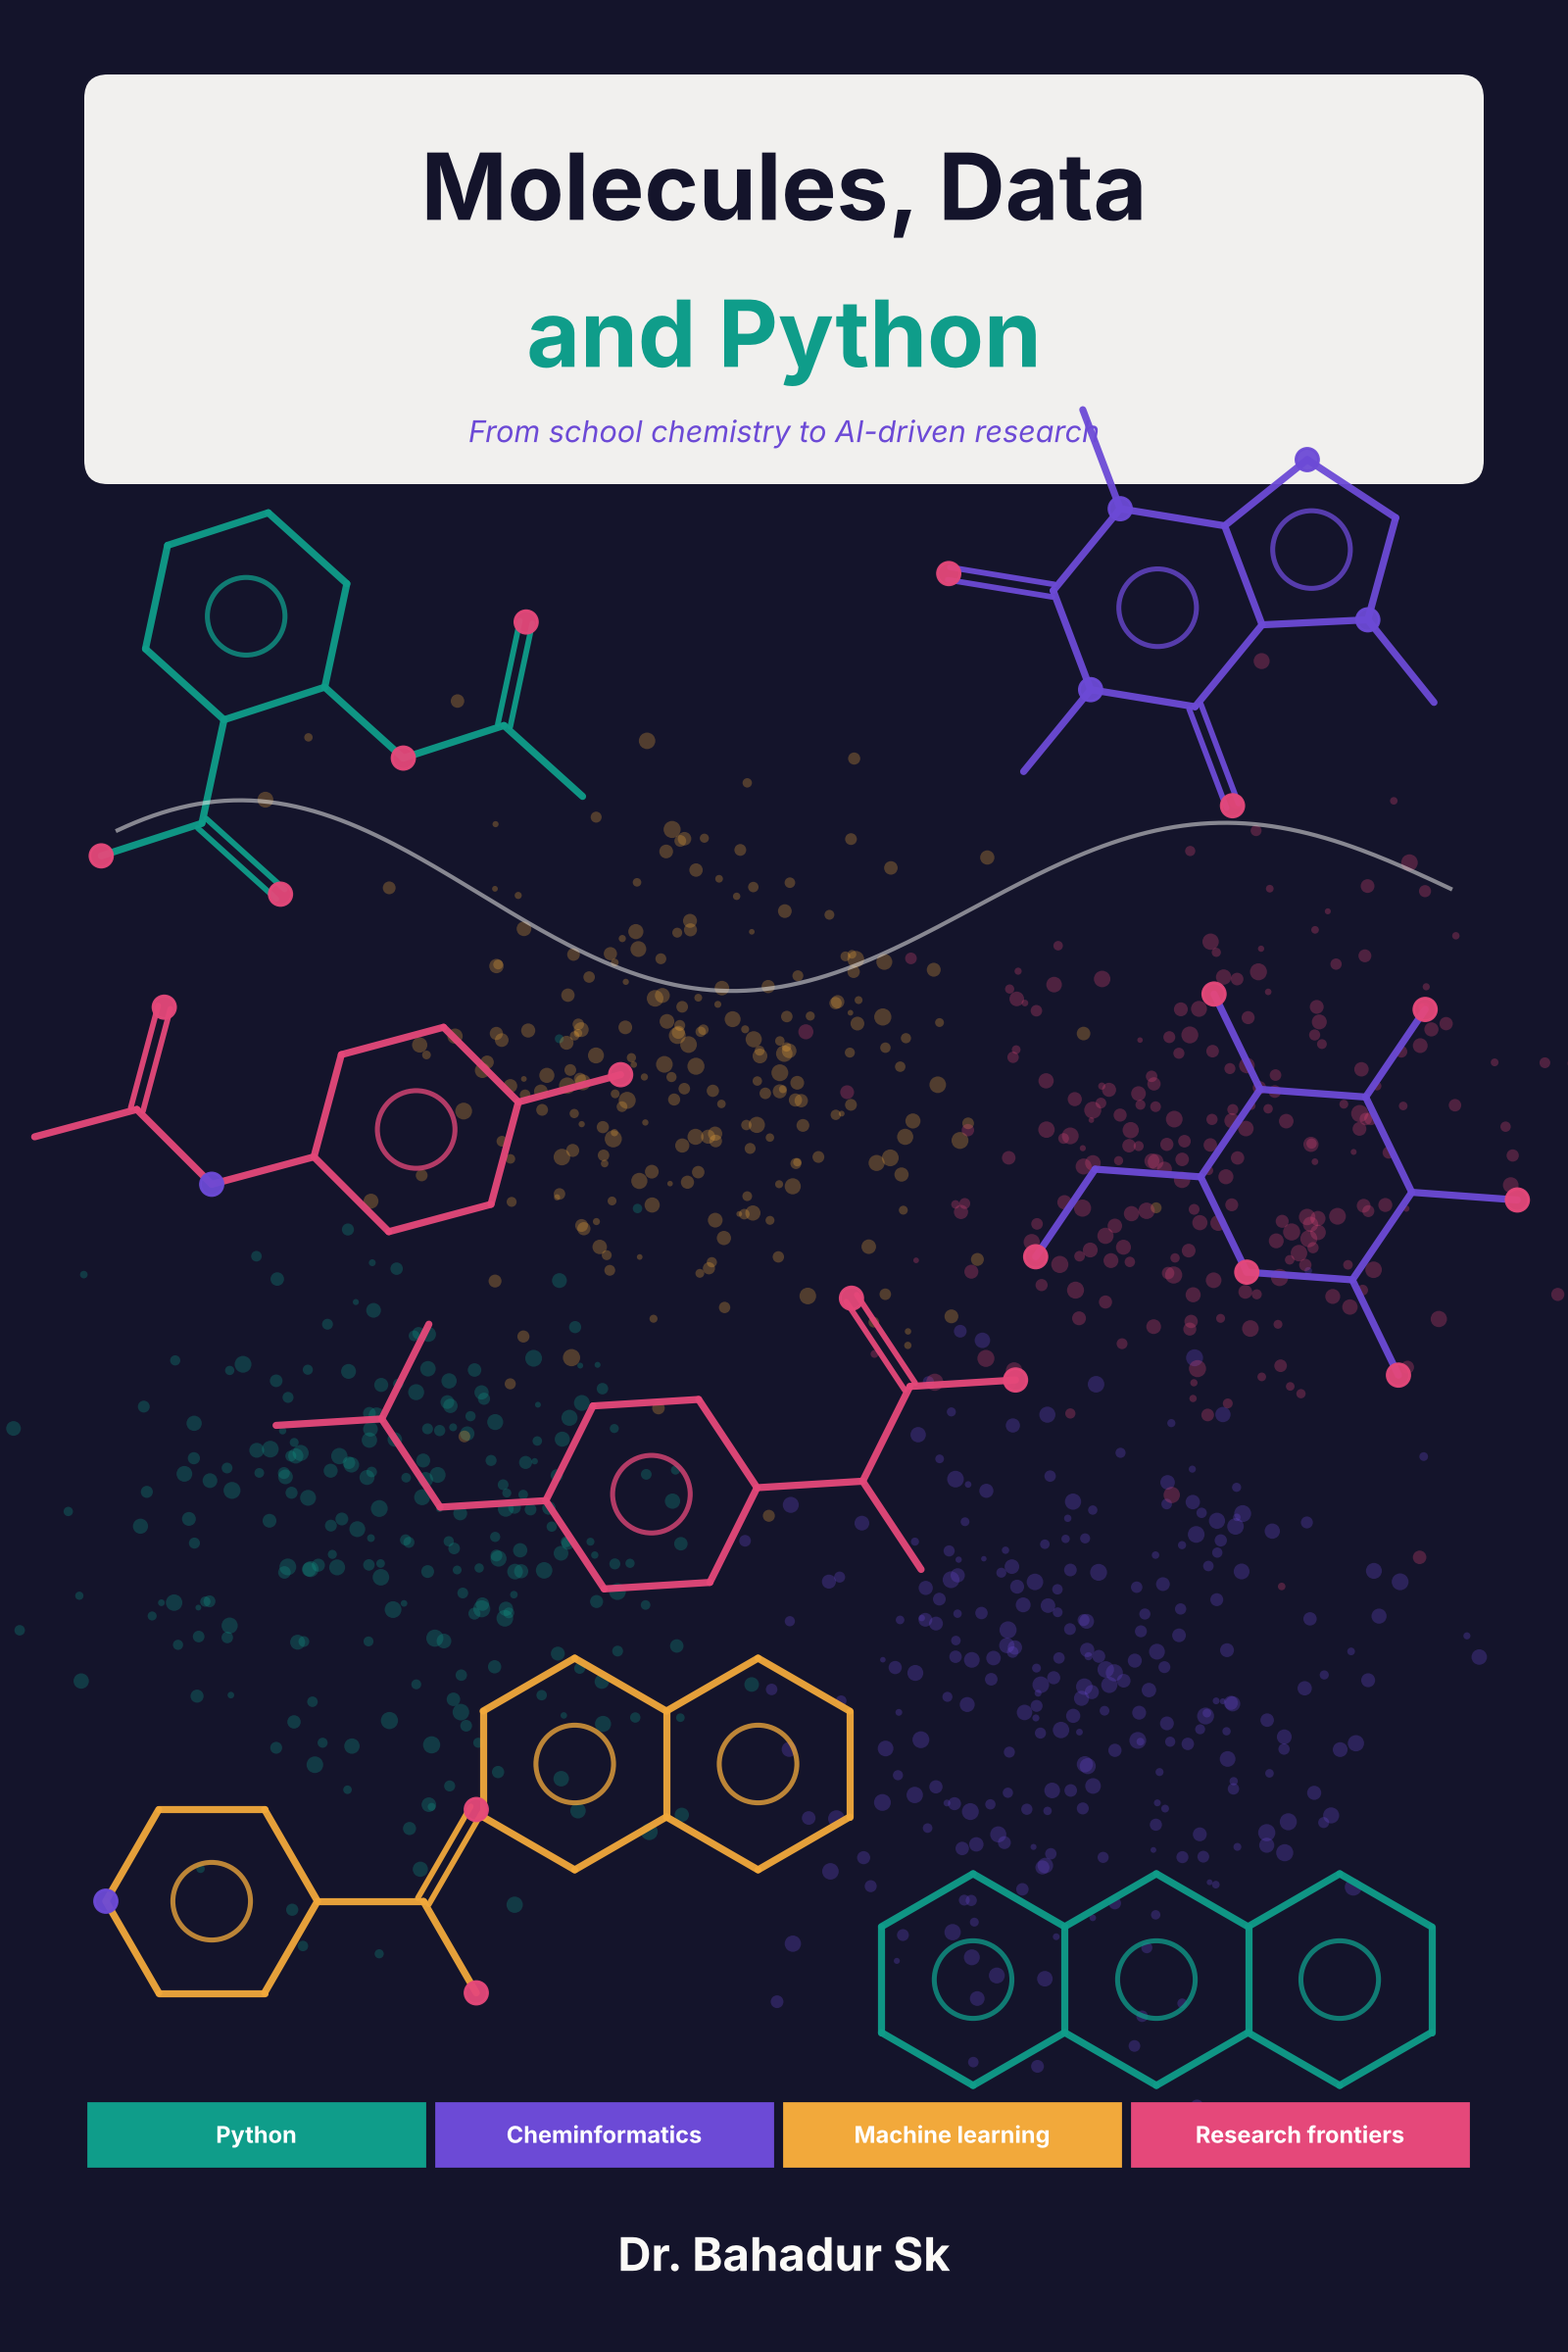
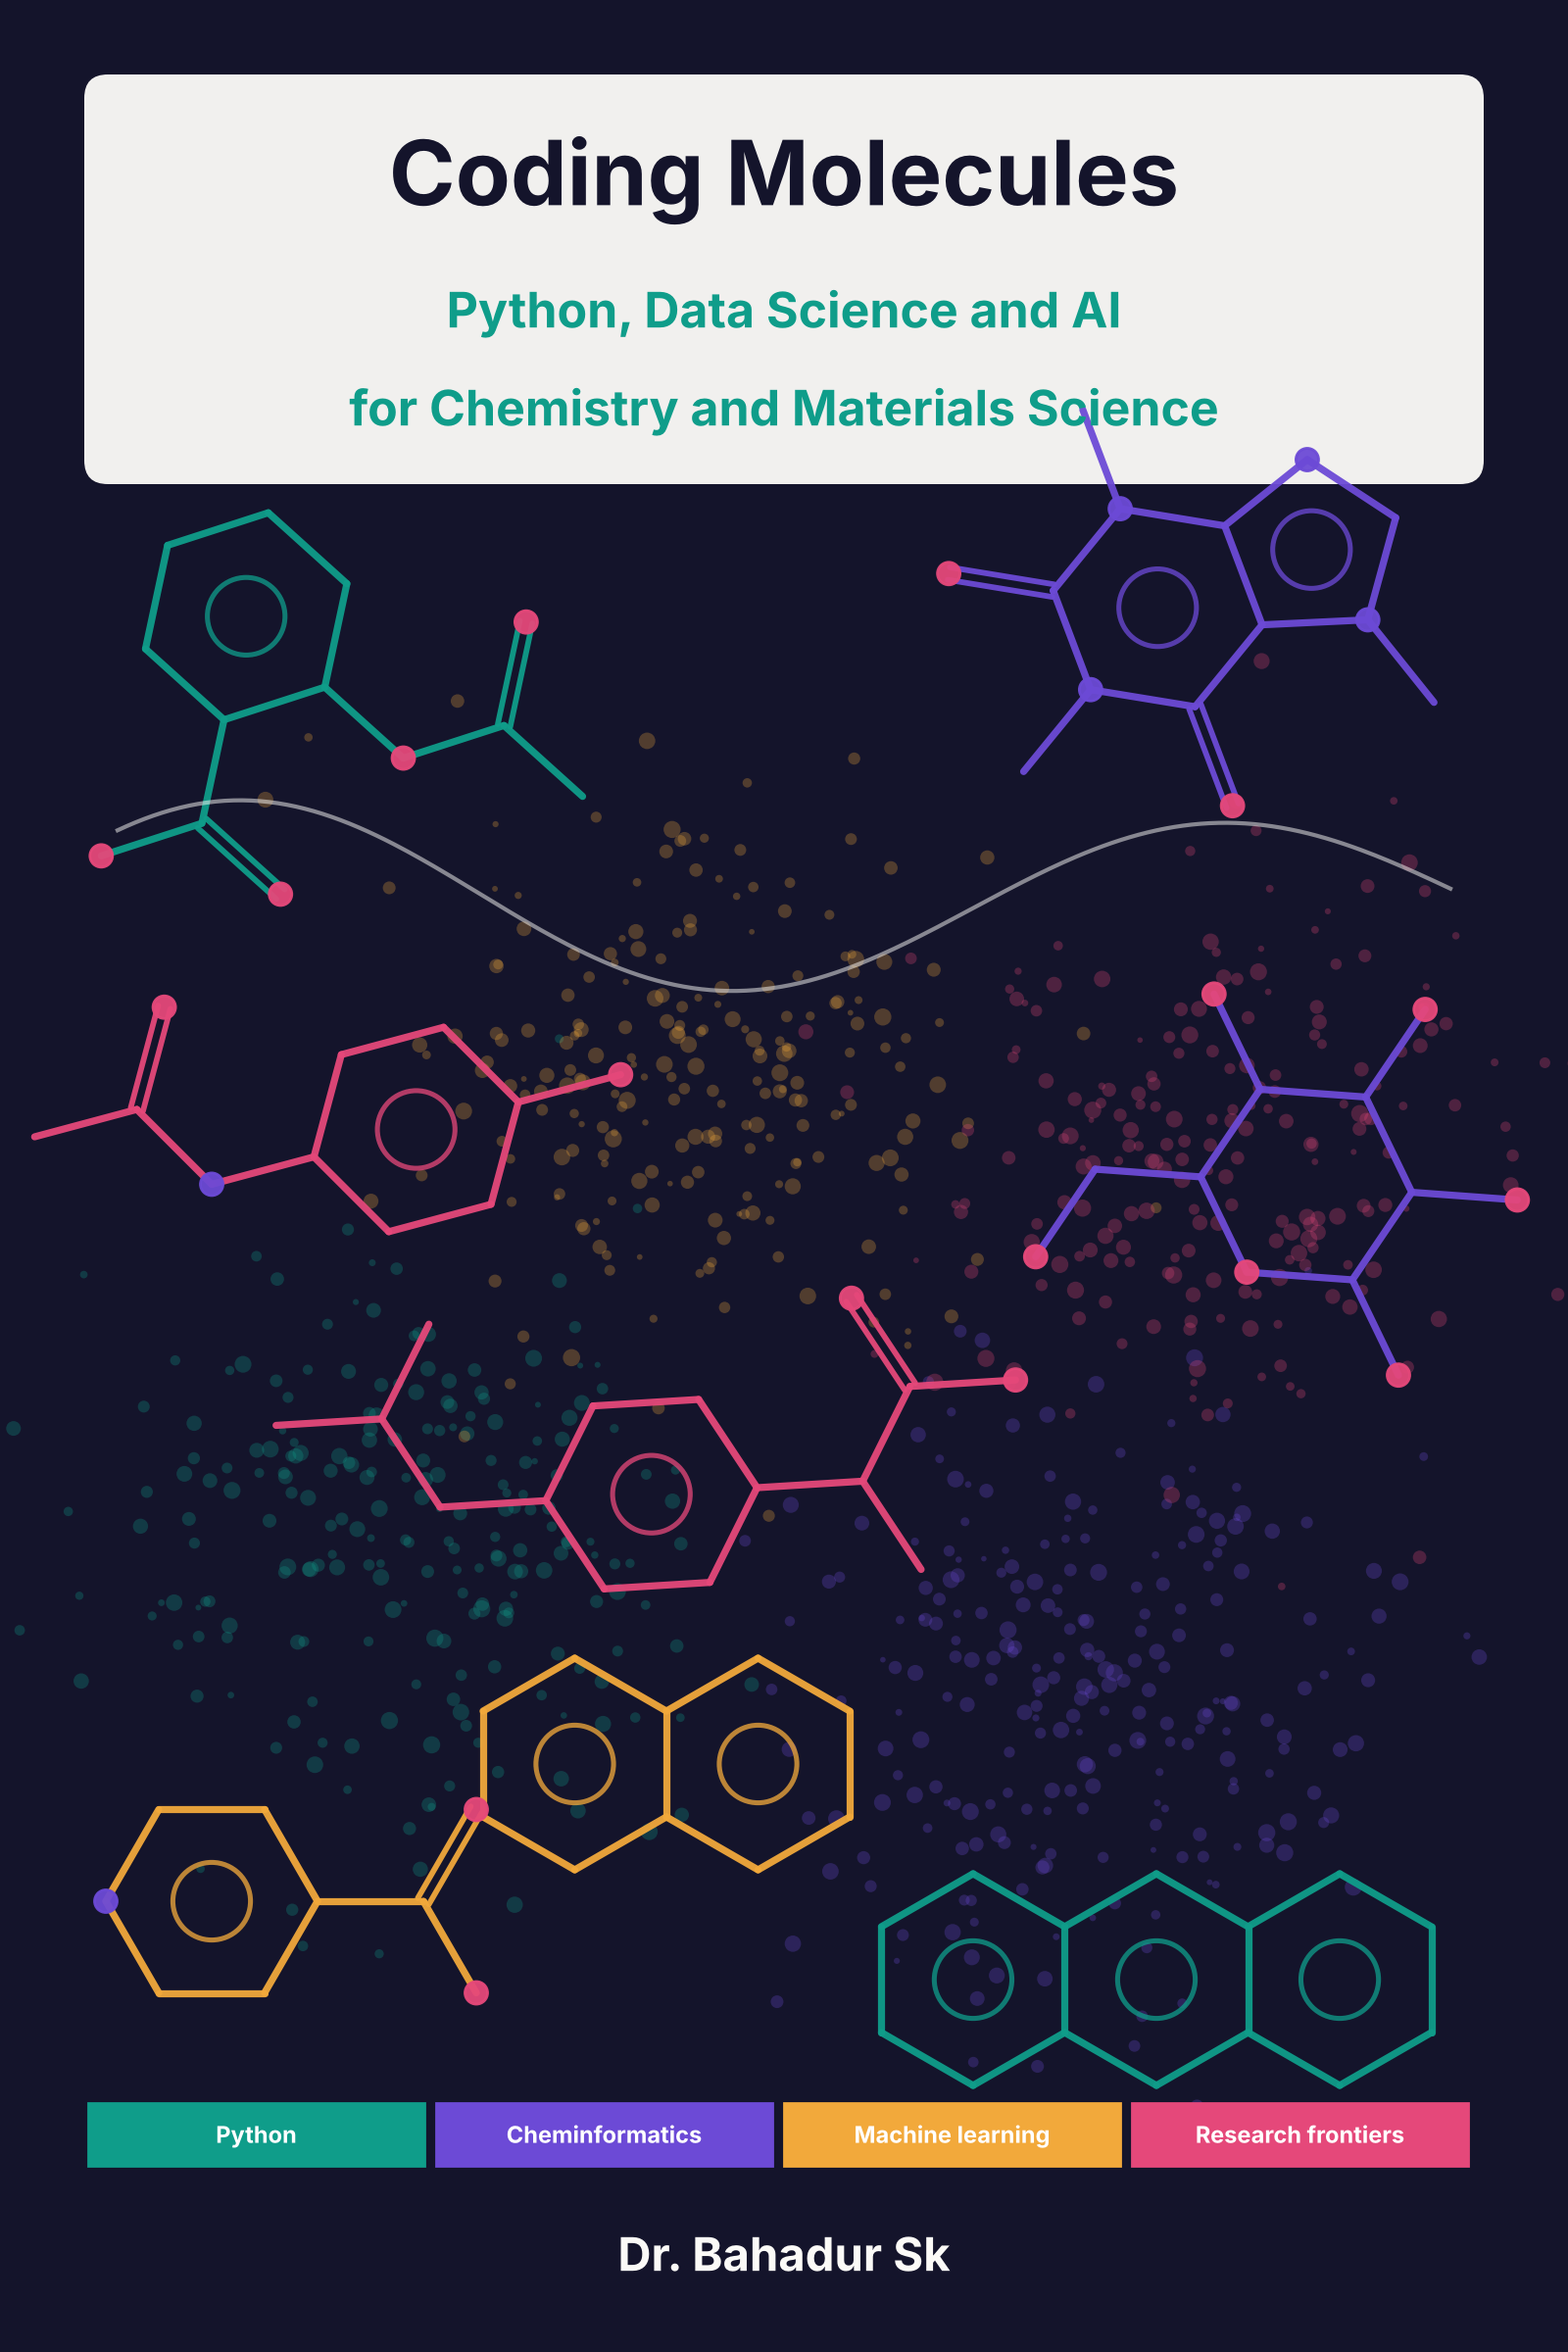
Rename the book to Coding Molecules: Python, Data Science and AI for Chemistry and Materials Science

Changed region(s): [[0.2188, 0.125, 0.7812, 0.1875], [0.25, 0.0625, 0.75, 0.0938]]

diff --git a/tools/make_pdf.js b/tools/make_pdf.js
@@ -54,7 +54,7 @@ const PRINT_CSS = `
     printBackground: true,
     margin: { top: "18mm", bottom: "18mm", left: "16mm", right: "16mm" },
     displayHeaderFooter: true,
-    headerTemplate: `<div style="font-size:7pt;width:100%;text-align:right;padding-right:16mm;color:#888">Molecules, Data and Python</div>`,
+    headerTemplate: `<div style="font-size:7pt;width:100%;text-align:right;padding-right:16mm;color:#888">Coding Molecules: Python, Data Science and AI for Chemistry and Materials Science</div>`,
     footerTemplate: `<div style="font-size:7pt;width:100%;text-align:center;color:#888"><span class="pageNumber"></span></div>`,
   });
   await browser.close();

diff --git a/book/_static/custom.css b/book/_static/custom.css
@@ -1,4 +1,4 @@
-/* Molecules, Data and Python: colour theme */
+/* Coding Molecules: Python, Data Science and AI for Chemistry and Materials Science — colour theme */
 :root {
   --mdp-teal: #0f9d8a;
   --mdp-violet: #6c4ad6;

diff --git a/tools/make_art.py b/tools/make_art.py
@@ -121,10 +121,11 @@ def cover(w=8.0, h=12.0, name="cover.png", dpi=200):
     # title block
     ax.add_patch(FancyBboxPatch((0.45, 9.55), w - 0.9, 2.05, boxstyle="round,pad=0.02,rounding_size=0.12",
                                 fc=PAPER, ec="none", alpha=0.96))
-    ax.text(w / 2, 11.05, "Molecules, Data", ha="center", va="center", fontsize=34, weight="bold", color=INK)
-    ax.text(w / 2, 10.3, "and Python", ha="center", va="center", fontsize=34, weight="bold", color=TEAL)
-    ax.text(w / 2, 9.8, "From school chemistry to AI-driven research", ha="center", va="center",
-            fontsize=11, color=VIOLET, style="italic")
+    ax.text(w / 2, 11.12, "Coding Molecules", ha="center", va="center", fontsize=33, weight="bold", color=INK)
+    ax.text(w / 2, 10.42, "Python, Data Science and AI", ha="center", va="center",
+            fontsize=18, weight="bold", color=TEAL)
+    ax.text(w / 2, 9.92, "for Chemistry and Materials Science", ha="center", va="center",
+            fontsize=18, weight="bold", color=TEAL)
 
     # level ribbon
     for k, (lbl, c) in enumerate([("Python", TEAL), ("Cheminformatics", VIOLET),
@@ -149,10 +150,9 @@ def social_card():
                cmap=matplotlib.colors.ListedColormap(PALETTE), alpha=0.3, lw=0)
     for (smi, col), c in zip(COVER_MOLS[:4], [(7.6, 4.7), (10.4, 4.2), (8.0, 1.9), (10.7, 1.4)]):
         draw_mol(ax, smi, c, scale=0.33, colour=col, lw=2.4)
-    ax.text(0.7, 4.3, "Molecules, Data", fontsize=44, weight="bold", color=PAPER, va="center")
-    ax.text(0.7, 3.3, "and Python", fontsize=44, weight="bold", color=TEAL, va="center")
-    ax.text(0.7, 2.3, "An interactive book: Python, cheminformatics\nand machine learning for chemists",
-            fontsize=15, color=PAPER, va="center", alpha=0.9)
+    ax.text(0.7, 4.55, "Coding Molecules", fontsize=42, weight="bold", color=PAPER, va="center")
+    ax.text(0.7, 3.15, "Python, Data Science and AI for\nChemistry and Materials Science",
+            fontsize=23, weight="bold", color=TEAL, va="center", linespacing=1.45)
     ax.text(0.7, 0.9, "Dr. Bahadur Sk", fontsize=17, color=AMBER, weight="bold", va="center")
     fig.savefig(OUT / "social_card.png", dpi=100, facecolor=INK)
     plt.close(fig)
@@ -210,7 +210,7 @@ def library_table(name="library_table.png"):
         ax.text(c + 0.5, r + 0.79, nm, color="white", fontsize=5.6, ha="center", va="center", linespacing=0.9)
     ax.text(9, -1.2, "Periodic Table of Python for Chemists", ha="center", va="center",
             fontsize=21, weight="bold", color=INK)
-    ax.text(9, -0.55, "every tool and method used in Molecules, Data and Python\n(the small number on each tile is the chapter that introduces it)",
+    ax.text(9, -0.55, "every tool and method used in this book\n(the small number on each tile is the chapter that introduces it)",
             ha="center", va="center", fontsize=9.5, color="#555", linespacing=1.3)
     for k, (cat, (col, lbl)) in enumerate(CAT.items()):
         x = 2.6 + k * 2.75
@@ -233,8 +233,9 @@ def logo_with_title(name="logo_title.png"):
         ax.add_patch(Circle((cx + R * np.cos(a), cy + R * np.sin(a)), 0.1, color=PALETTE[k % 4], zorder=5))
     xs = np.linspace(-0.28, 0.28, 40)
     ax.plot(cx + xs, cy + 0.22 * np.tanh(4 * xs / 0.62) - 0.01, color=AMBER, lw=3, solid_capstyle="round")
-    ax.text(cx, 0.62, "Molecules, Data", ha="center", va="center", fontsize=13, weight="bold", color=VIOLET, style="italic")
-    ax.text(cx, 0.28, "and Python", ha="center", va="center", fontsize=13, weight="bold", color=TEAL, style="italic")
+    ax.text(cx, 0.72, "Coding Molecules", ha="center", va="center", fontsize=13, weight="bold", color=VIOLET, style="italic")
+    ax.text(cx, 0.33, "Python, Data Science and AI for\nChemistry and Materials Science", ha="center", va="center",
+            fontsize=7.4, weight="bold", color=TEAL, style="italic", linespacing=1.4)
     fig.savefig(OUT / name, transparent=True)
     plt.close(fig)
 

diff --git a/book/intro.md b/book/intro.md
@@ -1,4 +1,4 @@
-# Molecules, Data and Python
+# Coding Molecules: Python, Data Science and AI for Chemistry and Materials Science
 
 ```{image} _static/library_table.png
 :alt: "Periodic Table of Python for Chemists: coloured tiles for every library and method used in the book, such as NumPy, pandas, Matplotlib, RDKit, SciPy, scikit-learn and PyTorch, each labelled with the chapter that introduces it"
@@ -7,7 +7,7 @@
 
 ## An interactive introduction to Python, cheminformatics and machine learning for chemists
 
-*Molecules, Data and Python* teaches programming the way chemists actually use it: to calculate, to plot, to draw and search molecules, to simulate, and to learn from data. It starts at the very beginning (your first line of Python is a molar mass) and ends at the research frontier, with machine learning for drug discovery, catalysis, spectroscopy, batteries, polymers and materials, and with AI-driven discovery, sensing, imaging and prediction.
+*Coding Molecules: Python, Data Science and AI for Chemistry and Materials Science* teaches programming the way chemists actually use it: to calculate, to plot, to draw and search molecules, to simulate, and to learn from data. It starts at the very beginning (your first line of Python is a molar mass) and ends at the research frontier, with machine learning for drug discovery, catalysis, spectroscopy, batteries, polymers and materials, and with AI-driven discovery, sensing, imaging and prediction.
 
 Every chapter is a Jupyter notebook. You can read it here, or press the 🚀 **launch** button at the top of any chapter to open it in **Google Colab** or **Binder** and run, edit and break the code yourself, with nothing to install. The ⬇ **download** button gives you the notebook to run on your own computer.
 
@@ -131,14 +131,14 @@ This book is © 2026 Dr. Bahadur Sk. The text, figures and data are released und
 
 [![DOI](https://zenodo.org/badge/DOI/10.5281/zenodo.24583664.svg)](https://doi.org/10.5281/zenodo.24583664)
 
-> Sk, B. (2026). *Molecules, Data and Python* [Interactive book]. Zenodo. <https://doi.org/10.5281/zenodo.24583664>
+> Sk, B. (2026). *Coding Molecules: Python, Data Science and AI for Chemistry and Materials Science* [Interactive book]. Zenodo. <https://doi.org/10.5281/zenodo.24583664>
 
 This DOI covers all versions and always resolves to the latest release. To cite version 1.0 specifically, use [10.5281/zenodo.24583665](https://doi.org/10.5281/zenodo.24583665).
 
 ```bibtex
 @book{sk2026molecules,
   author    = {Sk, Bahadur},
-  title     = {Molecules, Data and Python},
+  title     = {Coding Molecules: Python, Data Science and AI for Chemistry and Materials Science},
   year      = {2026},
   publisher = {Zenodo},
   doi       = {10.5281/zenodo.24583664},

diff --git a/README.md b/README.md
@@ -1,6 +1,6 @@
-# Molecules, Data and Python
+# Coding Molecules: Python, Data Science and AI for Chemistry and Materials Science
 
-[![Molecules, Data and Python](book/_static/social_card.png)](https://bahadursk.github.io/molecules-data-python/intro.html)
+[![Coding Molecules: Python, Data Science and AI for Chemistry and Materials Science](book/_static/social_card.png)](https://bahadursk.github.io/molecules-data-python/intro.html)
 
 <h2 align="center">
   📖 <a href="https://bahadursk.github.io/molecules-data-python/intro.html"><b>Read the book online → bahadursk.github.io/molecules-data-python</b></a>
@@ -46,6 +46,6 @@ Code: MIT. Text and figures: CC BY 4.0.
 
 ## How to cite
 
-> Sk, B. (2026). *Molecules, Data and Python*. Zenodo. https://doi.org/10.5281/zenodo.24583664
+> Sk, B. (2026). *Coding Molecules: Python, Data Science and AI for Chemistry and Materials Science*. Zenodo. https://doi.org/10.5281/zenodo.24583664
 
 This DOI covers all versions and always resolves to the latest release. To cite version 1.0 specifically, use [10.5281/zenodo.24583665](https://doi.org/10.5281/zenodo.24583665). See also [`CITATION.cff`](CITATION.cff) or the "Cite this repository" button on GitHub. Each new GitHub release is archived on Zenodo automatically.
